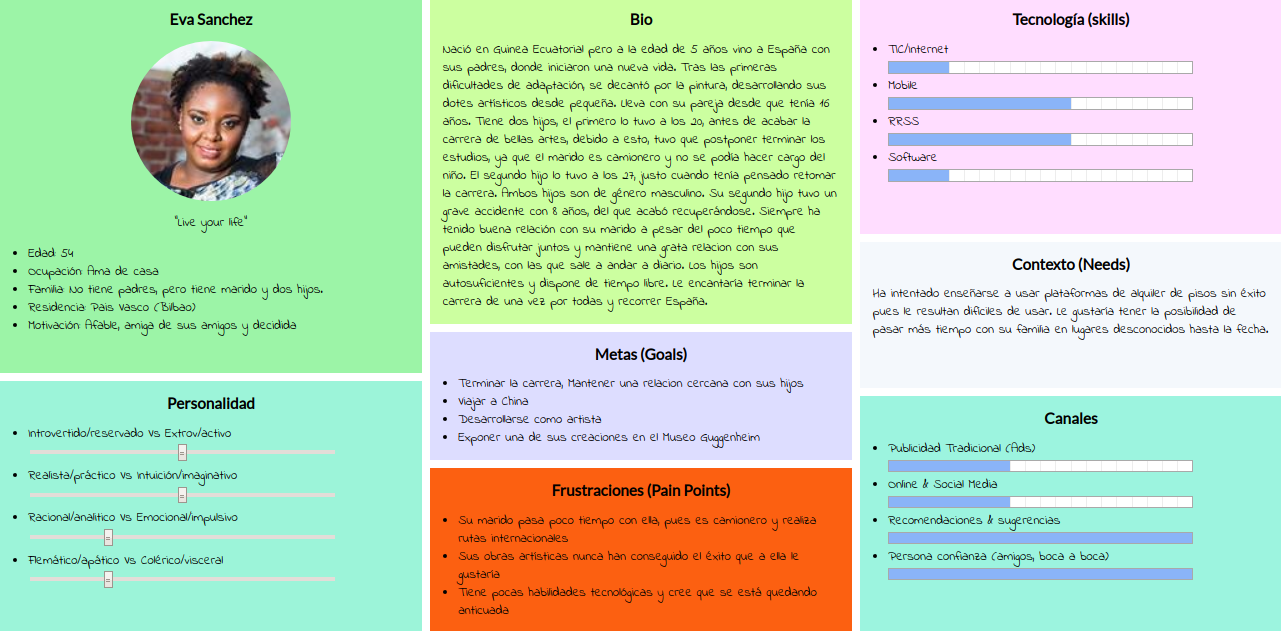
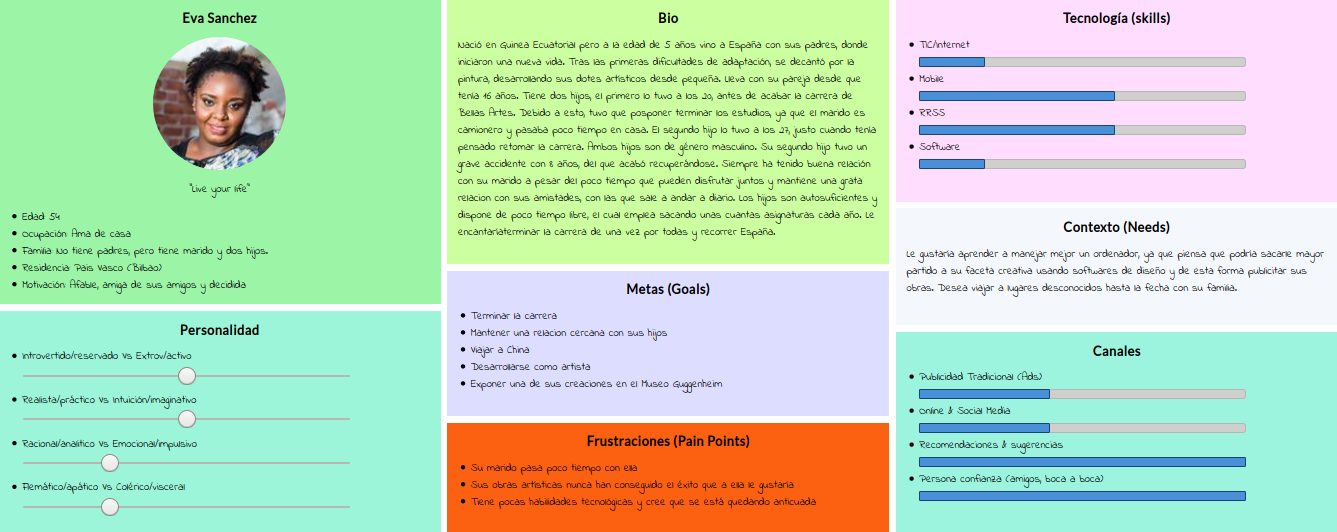
Correccion Eva

diff --git a/P1/ficheros plantilla/Journey.js b/P1/ficheros plantilla/Journey.js
@@ -92,29 +92,29 @@ angular.module("angular", [])
                 /*************************************/
                 
 				Id: 1,
-				Name: "Monica Suarez",
-                Photo: "woman.png",
+				Name: "Eva Sánchez",
+                Photo: "persona2_eva.jpg",
                 
 				 /*** PASO #1: INSPIRACION ***/ 
-                goal1: "Quiere preparar un viaje con su familia para Verano, tiene sólo 15 dias libres",
+                goal1: "Quiere preparar un viaje con su familia para Verano, tiene que cuadrar vacaciones de su marido con días libres de sus hijos",
                 touch1: "agenda",
-                feel1: "5",
-                con1: "Quiere ir a un pais exotico pero que tenga atracciones para niños pequeños",
+                feel1: "4",
+                con1: "Quiere ir a algun destino español con interés turístico y que guste al resto de su familia",
                 ima1: "cartoon-going.png",
                 
-                /*** PASO #2: DECICION ***/ 
-                goal2: "Ir a una agencia de viajes, y decirle sus preferencias y planes",
-                touch2: "Servicio (agencia)",
-                feel2: "4",
-                con2: "Tiene que desplazarse a agencia, explica su intenciones, le llamaran porque no hay nada interesante",
+                /*** PASO #2: DECISION ***/ 
+                goal2: "Registrarse en una plataforma Web de alquiler de pisos para iniciar su búsqueda personalizada",
+                touch2: "Servicio (plataforma Web)",
+                feel2: "3",
+                con2: "Tiene que registrarse y realizar las búsquedas ella sola, que con pocas habilidades tecnológicas le resulta difícil",
                 ima2: "cartoon-teamthinking.png",
                 
                 /*** PASO #3: ACTUA ***/ 
                 
-                goal3: "Le llaman a los pocos días con un viaje que no le convence",
-                touch3: "Móvil (llamada)",
+                goal3: "Inicia la búsqueda",
+                touch3: "Móvil (página web)",
                 feel3: "2",
-                con3: "Piensa que ha perdido el tiempo",
+                con3: "No consigue ",
                 ima3: "cartoon-phoningangry.png",
                 
                 /*** PASO #4: OBSERVA ***/ 
@@ -122,7 +122,8 @@ angular.module("angular", [])
                 goal4: "Busca una oferta en hoteles cerca de playa y con parque atracciones",
                 touch4: "Móvil (webapp)",
                 feel4: "2",
-                con4: "No hay mucha información del alojamiento ni de lo que hay alrededor, aunque el precio está bien, va por la calle por lo que está incómoda",
+                con4: "No hay mucha información del alojamiento ni de lo que hay alrededor, aunque el precio está bien,"+
+                " va por la calle por lo que está incómoda",
                 ima4: "cartoon-phone-street.png",
                 
                  /*** PASO #5: ANALIZA ***/ 

diff --git a/P1/ficheros plantilla/Persona.js b/P1/ficheros plantilla/Persona.js
@@ -105,20 +105,21 @@ angular.module("angular", [])
 				], 
 				Goals: ["Terminar la carrera", "Mantener una relacion cercana con sus hijos", "Viajar a China", "Desarrollarse como artista", 
 				"Exponer una de sus creaciones en el Museo Guggenheim"],
-				Frustrations: ["Su marido pasa poco tiempo con ella, pues es camionero y realiza rutas internacionales", 
+				Frustrations: ["Su marido pasa poco tiempo con ella", 
 				"Sus obras artísticas nunca han conseguido el éxito que a ella le gustaría",  
 				"Tiene pocas habilidades tecnológicas y cree que se está quedando anticuada"],
 				Bio: "Nació en Guinea Ecuatorial pero a la edad de 5 años vino a España con sus padres, donde iniciaron una nueva vida."+ 
 				" Tras las primeras dificultades de adaptación, se decantó por la pintura, desarrollando sus dotes artísticos desde pequeña. " +
 				" Lleva con su pareja desde que tenía 16 años. Tiene dos hijos, el primero lo tuvo a los 20, antes de acabar" + 
-				" la carrera de bellas artes, debido a esto, tuvo que postponer terminar los estudios, ya que el marido es " +
-				"camionero y no se podía hacer cargo del niño. El segundo hijo lo tuvo a los " +
+				" la carrera de Bellas Artes. Debido a esto, tuvo que posponer terminar los estudios, ya que el marido es " +
+				"camionero y pasaba poco tiempo en casa. El segundo hijo lo tuvo a los " +
 				" 27, justo cuando tenía pensado retomar la carrera. Ambos hijos son de género masculino." + 
 				" Su segundo hijo tuvo un grave accidente con 8 años, del que acabó recuperándose." + 
 				" Siempre ha tenido buena relación con "+
 				" su marido a pesar del poco tiempo que pueden disfrutar juntos y mantiene una grata relacion con sus amistades," +
 				" con las que sale a andar a diario. Los hijos son autosuficientes" +
-				" y dispone de tiempo libre. Le encantaría terminar la carrera de una vez por todas y recorrer España.",
+				" y dispone de poco tiempo libre, el cual emplea sacando unas cuantas asignaturas cada año. Le encantaría"+
+				"terminar la carrera de una vez por todas y recorrer España.",
 				Tech: [
 					{ Name: "TIC/Internet", Value: 1 },
 					{ Name: "Mobile", Value: 3 },
@@ -126,8 +127,8 @@ angular.module("angular", [])
 					{ Name: "Software", Value: 1 }					
 				], 
 				Contextos:   "Le gustaría aprender a manejar mejor un ordenador, ya que piensa que podría" +
-				" sacarle mayor partido a su faceta creativa usando softwares de diseño."+ 
-                " Le gustaría tener la posibilidad de pasar más tiempo con su familia en lugares desconocidos hasta la fecha." ,
+				" sacarle mayor partido a su faceta creativa usando softwares de diseño y de esta forma publicitar sus obras."+ 
+                " Desea viajar a lugares desconocidos hasta la fecha con su familia." ,
 				PreferredChannels: [
 					{ Name: "Publicidad Tradicional (Ads)", Value: 2 },
 					{ Name: "Online & Social Media", Value: 2 },
